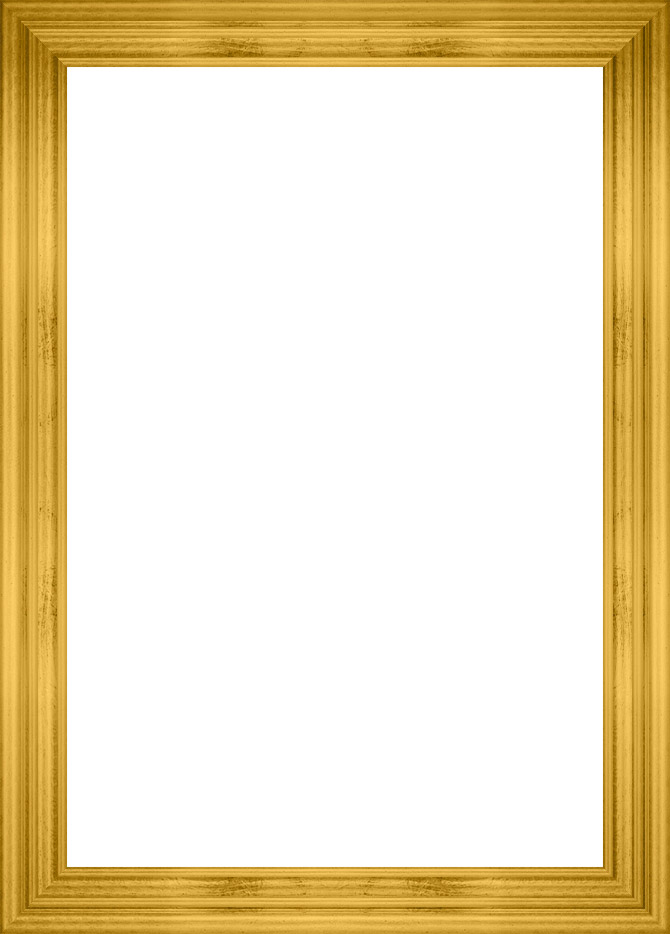
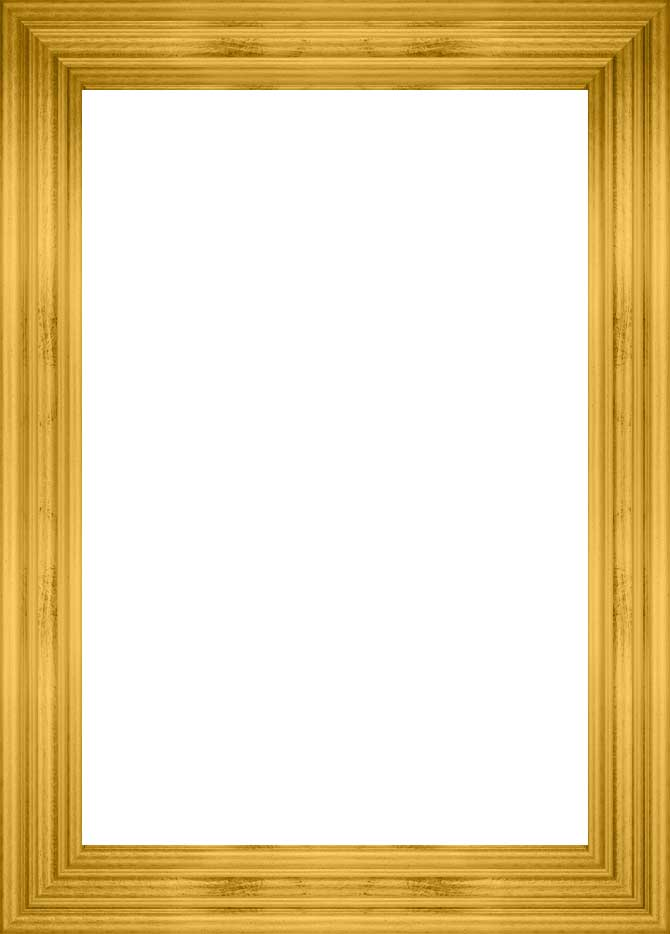
Navigation between 5 paintings works

Changed region(s): [[0.0896, 0.0621, 0.9254, 0.9315]]

diff --git a/src/Context.js b/src/Context.js
@@ -23,30 +23,18 @@ class Provider extends Component {
     }
 
     componentDidMount() {
-        //Save copy of Painting List 
-        const stepZero =  () => {
-            return new Promise( resolve => {
-                this.setPaintingsList()
-                resolve();
-            })
-        }
-        //Save copy of Painting List
-        const stepOne = () => { 
-            return new Promise( resolve => {
-                this.setCurrentPainting()
-                resolve();
-            });
-        }
-        //Split Painting In Equal Parts
-        const stepTwo = () => {
-            return new Promise( resolve => {
-                const { columns, raws } = this.state;
-                const currentPainting = this.state.currentPainting.img
-                this.splitPainting(currentPainting, columns, raws);
-                resolve();
-            });
-        }
-        stepZero().then(stepOne).then(stepTwo)
+
+    /*** Retrieve data from ressources & assigned current painting ****/
+    const setPaintingsList = async () => {
+        let tempPainting = []
+        PaintingsDatabase.forEach( paint => {
+        let singlePaint = { ...paint }
+        tempPainting = [ ...tempPainting, singlePaint]
+        })
+        await this.setState({ paintingList: tempPainting })
+    }
+        
+        setPaintingsList().then(this.changePainting)
     }
 
     componentDidUpdate(prevProps, prevState) {
@@ -57,32 +45,48 @@ class Provider extends Component {
         }
     }
 
-/********** Retrieve data from ressources & assigned current painting **********/
-    setPaintingsList = () => {
-        let tempPainting = []
-        PaintingsDatabase.forEach( paint => {
-        let singlePaint = { ...paint }
-        tempPainting = [ ...tempPainting, singlePaint]
-        })
-        this.setState({ paintingList: tempPainting })
-    }
+/********** Change Painting **********/
+    changePainting = (e) => {
+        //Save copy of Painting List
 
-    setCurrentPainting = (value) => {
-            if(!value){
-            this.setState( () => {
-                return {currentPainting: this.state.paintingList[0]}
+        const setCurrentPainting = async (value) => {
+            
+            let { id } = this.state.currentPainting
+
+            const setPainting = (e) => {
+                    this.setState( () => { 
+                            return { currentPainting: this.state.paintingList[e] } 
+                                },  () => {
+                                    const { imgRelativeSize, imgWidth, imgHeight, frameToArtPct, frameToMatPct }  = this.state.currentPainting.sizing
+                                    this.setState({ artSizing: FrameDimension(imgRelativeSize, imgWidth, imgHeight, frameToArtPct, frameToMatPct)})
+                                })
                 }
-                ,  () => {
-                    const { imgRelativeSize, 
-                            imgWidth, 
-                            imgHeight, 
-                            frameToArtPct, 
-                            frameToMatPct }  = this.state.currentPainting.sizing
-                    this.setState({ artSizing: FrameDimension(imgRelativeSize, imgWidth, imgHeight, frameToArtPct, frameToMatPct)})
-                }
-            )
+                
+            switch (value) {
+                case "next":
+                    await setPainting(id + 1)
+                    break;
+                case "previous":
+                    await setPainting(id - 1)
+                    break;
+                default:
+                    await setPainting(0)
+                    break;
+            }
+    
         }
-        // will need to make this smarter here !!!!!!!!!!!!!!!
+
+        //Split Painting In Equal Parts
+        const splitCurrentPainting = () => {
+            return new Promise( resolve => {
+                const { columns, raws } = this.state;
+                const currentPainting = this.state.currentPainting.img
+                this.splitPainting(currentPainting, columns, raws);
+                resolve();
+            });
+        }
+
+        setCurrentPainting(e).then(splitCurrentPainting)
     }
 
 
@@ -115,12 +119,6 @@ class Provider extends Component {
                 //add sliced image to temporary paintingParts array
                 paintingParts.push( canvas.toDataURL() );
                 partsNbrs.push( i );
-                
-                // paintingParts.push( [ i, canvas.toDataURL() ] );
-                // const tempPart = {};
-                //tempPart[i] = canvas.toDataURL();
-                //paintingParts.push(tempPart)
-                // paintingParts.push( canvas.toDataURL() );
             }
 
             //step 3 Add Splited Pictures to State
@@ -350,7 +348,8 @@ class Provider extends Component {
                 handleChange: this.handleChange,
                 handleSubmit: this.handleSubmit,
                 shuffle: this.shuffle,
-                sort: this.sort
+                sort: this.sort,
+                changePainting: this.changePainting
                 }}>
                 {this.props.children}
             </Context.Provider>

diff --git a/src/ressources/PaintingsDatabase.js b/src/ressources/PaintingsDatabase.js
@@ -1,9 +1,8 @@
 const PaintingsDatabase = [
-    {   id: 1,
+    {   id: 0,
         name: 'Mona Lisa',
         img: '/imgs/paintings/mona-lisa.jpg',
-        frameImg: '/imgs/frames/mona-lisa-frame2.jpg',
-        frameHueBkgrd: 'rgba(229, 202, 174, 0)',
+        frameImg: '/imgs/frames/mona-lisa-frame.jpg',
         sizing: {
             imgRelativeSize: 0.8,
             imgWidth: 536,
@@ -21,11 +20,10 @@ const PaintingsDatabase = [
         link: 'https://en.wikipedia.org/wiki/Mona_Lisa',
         artistLink: 'https://en.wikipedia.org/wiki/Leonardo_da_Vinci'
     },
-    {   id: 2,
+    {   id: 1,
         name: 'The Great Wave off Kanagawa',
         img: '/imgs/paintings/the-great-wave-of-kanagawa.jpg',
-        frameImg: '/imgs/frames/the-great-wave-of-kanagawa-frame.png',
-        frameHueBkgrd: '#e5caae',
+        frameImg: '/imgs/frames/the-great-wave-of-kanagawa-frame.jpg',
         sizing: {
             imgRelativeSize: 0.8, 
             imgWidth: 800, 
@@ -43,10 +41,17 @@ const PaintingsDatabase = [
         link: 'https://en.wikipedia.org/wiki/The_Great_Wave_off_Kanagawa',
         artistLink: 'https://en.wikipedia.org/wiki/Hokusai'
     },
-    {   id: 3,
+    {   id: 2,
         name: 'The Starry Night',
-        img: 'TO DEFINE',
-        frameImg: 'TO DEFINE',
+        img: '/imgs/paintings/starry-night.jpg',
+        frameImg: '/imgs/frames/starry-night-frame.jpg',
+        sizing: {
+            imgRelativeSize: 0.8,
+            imgWidth: 800,
+            imgHeight: 631,
+            frameToArtPct: 0.10,
+            frameToMatPct: 0.05
+        },          
         otherName: [],
         artist: '	Vincent Van Gogh',
         origin: 'Holland',
@@ -57,10 +62,17 @@ const PaintingsDatabase = [
         link: 'https://en.wikipedia.org/wiki/The_Starry_Night',
         artistLink: 'https://en.wikipedia.org/wiki/Vincent_van_Gogh'
     },
-    {   id: 4,
+    {   id: 3,
         name: 'The Raft of the Medusa',
-        img: 'TO DEFINE',
-        frameImg: 'TO DEFINE',
+        img: '/imgs/paintings/medusa.jpg',
+        frameImg: '/imgs/frames/medusa-frame.jpg',
+        sizing: {
+            imgRelativeSize: 0.9,
+            imgWidth: 900,
+            imgHeight: 612,
+            frameToArtPct: 0.05,
+            frameToMatPct: 0
+        },      
         otherName: ['Le Radeau de la Méduse', 'Scène de Naufrage'],
         artist: '	Théodore Géricault',
         origin: 'France',
@@ -71,10 +83,17 @@ const PaintingsDatabase = [
         link: 'https://en.wikipedia.org/wiki/The_Raft_of_the_Medusa',
         artistLink: 'https://en.wikipedia.org/wiki/Th%C3%A9odore_G%C3%A9ricault'
     },
-    {   id: 5,
+    {   id: 4,
         name: 'American Gothic',
-        img: 'TO DEFINE',
-        frameImg: 'TO DEFINE',
+        img: '/imgs/paintings/american-gothic.jpg',
+        frameImg: '/imgs/frames/american-gothic-frame.jpg',
+        sizing: {
+            imgRelativeSize: 0.8,
+            imgWidth: 560,
+            imgHeight: 675,
+            frameToArtPct: 0.10,
+            frameToMatPct: 0.3
+        },        
         otherName: ['American Gothic House'],
         artist: 'Grant Wood',
         origin: 'USA',

diff --git a/src/components/Wall.js b/src/components/Wall.js
@@ -6,6 +6,9 @@ import InfoPlate from './InfoPlate'
 export default function Wall(){
 
     const renderWall = props => {
+        console.log("Wall", props)
+        
+        const changeArt = props.changePainting
 
         const { frameAspectRatio, 
             matLeftandRight, 
@@ -13,7 +16,7 @@ export default function Wall(){
             artLeftandRight, 
             artTopandBottom } = props.artSizing
 
-        const { frameImg, sizing } = props.currentPainting
+        const { frameImg, sizing } = props.currentPainting 
 
         const maxWidth = !sizing ? null : (sizing.imgWidth / (sizing.imgRelativeSize * 10)) * 10
         // console.log(maxWidth)     
@@ -21,6 +24,7 @@ export default function Wall(){
         return (
             <section className="wall-wrapper">
                 <div className="painting-container" style={{ maxWidth: (maxWidth * 1.1) }}>
+                <button onClick={() => changeArt("previous")}>Backward</button>
                     <div className="frame" style={{ backgroundImage: `url('${frameImg}')`, paddingBottom: frameAspectRatio + "%"}}>
                         <div className="mat" 
                             style={!matLeftandRight ? {position: "initial"} : {left: matLeftandRight + "%", right: matLeftandRight + "%", top: matTopAndBottom + "%", bottom: matTopAndBottom + "%"}}>
@@ -31,6 +35,7 @@ export default function Wall(){
                             </div>
                         </div>
                     </div>
+                <button onClick={() => changeArt("next")}>Forward</button>
             </div>
             <InfoPlate/>
             </section>

diff --git a/src/index.js b/src/index.js
@@ -4,12 +4,15 @@ import './index.scss';
 import App from './App';
 //import * as serviceWorker from './serviceWorker';
 import { ContextProvider } from './Context'
+import { BrowserRouter } from "react-router-dom";
 
 ReactDOM.render(
   <React.StrictMode>
-    <ContextProvider>
-      <App />
-    </ContextProvider>
+      <BrowserRouter>
+        <ContextProvider>
+          <App />
+      </ContextProvider>
+      </BrowserRouter>
   </React.StrictMode>,
   document.getElementById('root')
 );
